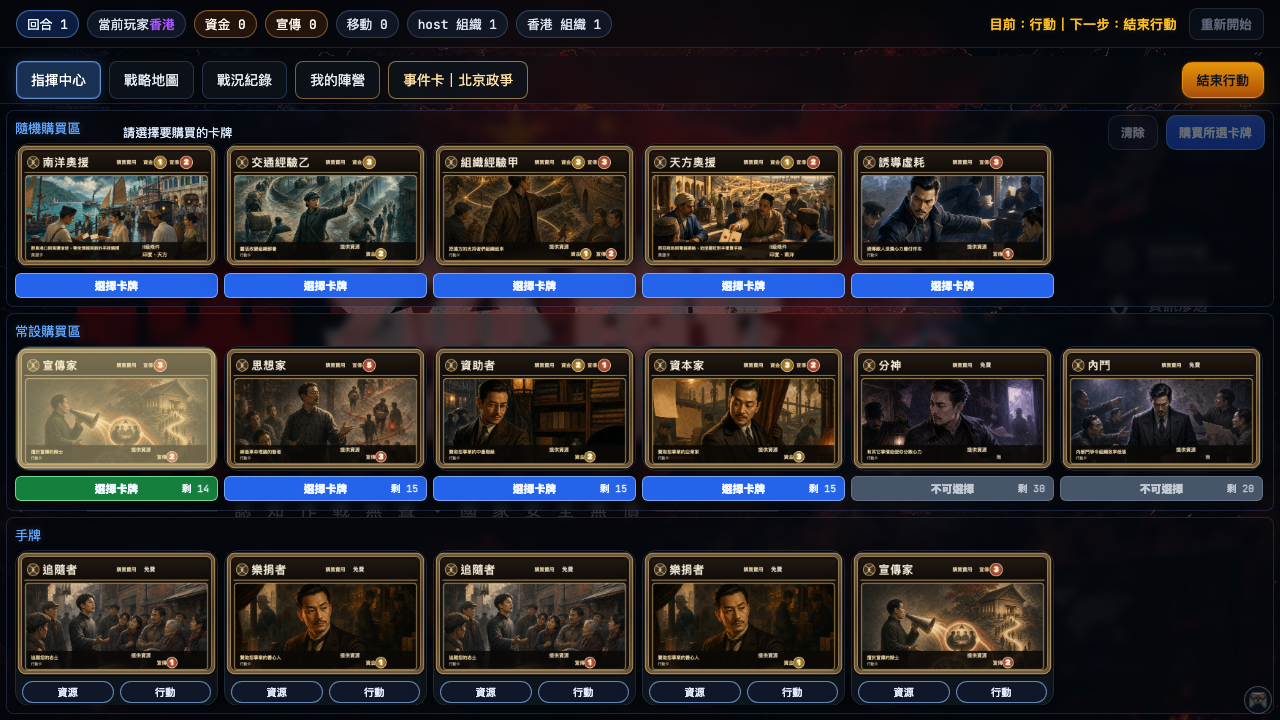
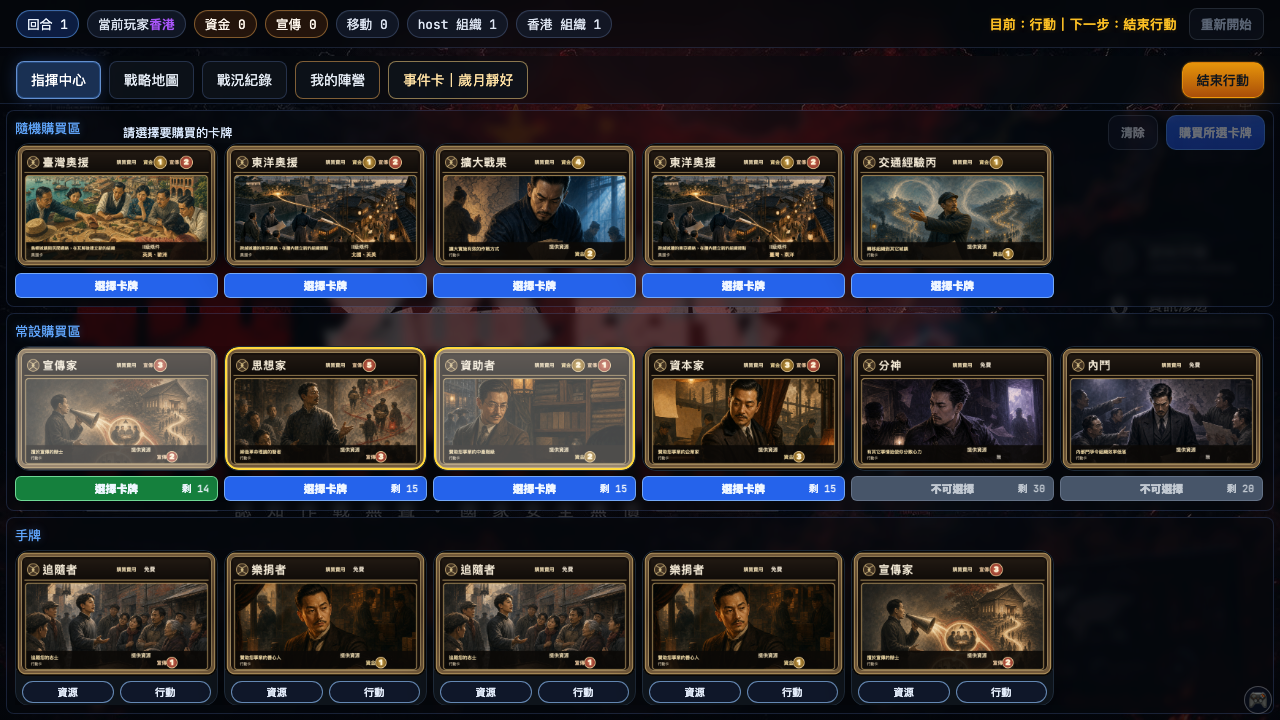
feat: use transparent yellow card focus border

diff --git a/static/style.css b/static/style.css
@@ -1205,7 +1205,7 @@ body {
   display: block;
 }
 
-/* Joy-Con／鍵盤目前焦點。控制器沿用 rl-pad-focus；黃色只覆蓋卡面。 */
+/* Joy-Con 目前焦點。控制器沿用 rl-pad-focus；不透明黃框只框住卡面。 */
 #commandGrid .card.rl-pad-focus::after {
   content: '';
   position: absolute;
@@ -1213,7 +1213,9 @@ body {
   z-index: 4;
   border-radius: inherit;
   pointer-events: none;
-  background: rgba(255, 216, 61, 0.16);
+  box-sizing: border-box;
+  border: 2px solid #ffd83d;
+  background: transparent;
 }
 
 .purchase-card-select-button {
@@ -3932,6 +3934,10 @@ html[data-display="living-room"] #commandGrid {
 html[data-display="living-room"] #purchaseRandom .purchase-card-item,
 html[data-display="living-room"] #purchaseStatic .purchase-card-item,
 html[data-display="living-room"] #hand .hand-card { zoom: 0.78; }
+/* 抵銷卡牌容器縮放，讓客廳模式仍顯示 2px 的焦點框。 */
+html[data-display="living-room"] #commandGrid .card.rl-pad-focus::after {
+  border-width: 2.57px;
+}
 html[data-display="living-room"] #purchaseSelectionControls { min-height: 30px; margin: 0 0 3px; gap: 6px; }
 html[data-display="living-room"] #purchaseSelectionSummary,
 html[data-display="living-room"] .purchase-selection-clear-btn,

diff --git a/static/index.html b/static/index.html
@@ -4,7 +4,7 @@
   <meta charset="UTF-8" />
   <title>REDLINE // STRATEGIC COMMAND</title>
   <link rel="icon" href="data:," />
-  <link rel="stylesheet" href="/static/style.css?v=half-height-command-centre-20261018-7" />
+  <link rel="stylesheet" href="/static/style.css?v=half-height-command-centre-20261018-9" />
   <!-- 客廳輪流（hot-seat）：在第一次繪製前就能遮住舞台，所以放在 <head>。 -->
   <script src="/static/hotseat_core.js?v=hotseat-codename-p1234-20261017"></script>
   <script src="/static/hotseat_ui.js?v=hotseat-codename-p1234-20261017"></script>

diff --git a/scripts/validate/validate_purchase_section_alignment.py b/scripts/validate/validate_purchase_section_alignment.py
@@ -88,19 +88,36 @@ def validate_page(page) -> dict:
     hand_cards = page.locator('#hand .card').count()
     base_panel_display = page.locator('#baseSelectionPanel').evaluate("el => getComputedStyle(el).display")
     focus_visual = page.evaluate("""() => {
-      const card = document.querySelector('#purchaseStatic .card');
-      if (!card) return null;
-      card.classList.add('rl-pad-focus', 'purchase-card-selected');
-      const button = card.closest('.purchase-card-item')?.querySelector('.purchase-card-select-button');
+      const cards = [...document.querySelectorAll('#purchaseStatic .card')];
+      const selectedCard = cards[0];
+      const card = cards[1];
+      const combinedCard = cards[2];
+      if (!selectedCard || !card || !combinedCard) return null;
+      selectedCard.classList.add('purchase-card-selected');
+      card.classList.add('rl-pad-focus');
+      combinedCard.classList.add('purchase-card-selected', 'rl-pad-focus');
+      const button = selectedCard.closest('.purchase-card-item')?.querySelector('.purchase-card-select-button');
       button?.classList.add('is-selected');
       const focusStyle = getComputedStyle(card, '::after');
-      const selectedOverlay = card.querySelector('.purchase-card-selected-overlay');
+      const selectedOverlay = selectedCard.querySelector('.purchase-card-selected-overlay');
+      const combinedFocusStyle = getComputedStyle(combinedCard, '::after');
+      const combinedSelectedOverlay = combinedCard.querySelector('.purchase-card-selected-overlay');
+      const combinedSelectedStyle = combinedSelectedOverlay ? getComputedStyle(combinedSelectedOverlay) : null;
       return {
         card_name: card.dataset.cardName,
         focus_background: focusStyle.backgroundColor,
+        focus_border_width: focusStyle.borderTopWidth,
+        focus_border_style: focusStyle.borderTopStyle,
+        focus_border_color: focusStyle.borderTopColor,
         focus_pointer_events: focusStyle.pointerEvents,
         selected_overlay_display: selectedOverlay ? getComputedStyle(selectedOverlay).display : null,
         button_background: button ? getComputedStyle(button).backgroundColor : null,
+        combined_focus_background: combinedFocusStyle.backgroundColor,
+        combined_focus_border_color: combinedFocusStyle.borderTopColor,
+        combined_focus_z_index: combinedFocusStyle.zIndex,
+        combined_selected_display: combinedSelectedStyle?.display || null,
+        combined_selected_background: combinedSelectedStyle?.backgroundColor || null,
+        combined_selected_z_index: combinedSelectedStyle?.zIndex || null,
       };
     }""")
     row_overflow = page.evaluate("""() => Object.fromEntries(
@@ -169,13 +186,16 @@ def validate_page(page) -> dict:
           }).length,
         };
       });
-      const focusCard = document.querySelector('#purchaseStatic .card');
-      const peerCard = [...document.querySelectorAll('#purchaseStatic .card')].find((card) => card !== focusCard);
+      const focusCard = document.querySelector('#purchaseStatic .card.rl-pad-focus');
+      const peerCard = [...document.querySelectorAll('#purchaseStatic .card')].find((card) => card !== focusCard && !card.classList.contains('rl-pad-focus'));
       return {
         boxes,
         rows,
         controls_outside_panel,
         focus_background: focusCard ? getComputedStyle(focusCard, '::after').backgroundColor : null,
+        focus_border_width: focusCard ? getComputedStyle(focusCard, '::after').borderTopWidth : null,
+        focus_border_style: focusCard ? getComputedStyle(focusCard, '::after').borderTopStyle : null,
+        focus_border_color: focusCard ? getComputedStyle(focusCard, '::after').borderTopColor : null,
         focus_outline: focusCard ? getComputedStyle(focusCard).outlineStyle : null,
         focus_shadow: focusCard ? getComputedStyle(focusCard).boxShadow : null,
         peer_outline: peerCard ? getComputedStyle(peerCard).outlineStyle : null,
@@ -218,13 +238,21 @@ def validate_page(page) -> dict:
             'detail': row_overflow,
         },
         {
-            'name': 'controller_focus_uses_yellow_overlay_distinct_from_selected_state',
+            'name': 'controller_focus_uses_opaque_yellow_border_with_transparent_interior',
             'ok': bool(
                 focus_visual
-                and focus_visual['focus_background'] == 'rgba(255, 216, 61, 0.16)'
+                and focus_visual['focus_background'] == 'rgba(0, 0, 0, 0)'
+                and focus_visual['focus_border_width'] == '2px'
+                and focus_visual['focus_border_style'] == 'solid'
+                and focus_visual['focus_border_color'] == 'rgb(255, 216, 61)'
                 and focus_visual['focus_pointer_events'] == 'none'
                 and focus_visual['selected_overlay_display'] == 'block'
                 and focus_visual['button_background'] == 'rgb(21, 128, 61)'
+                and focus_visual['combined_focus_background'] == 'rgba(0, 0, 0, 0)'
+                and focus_visual['combined_focus_border_color'] == 'rgb(255, 216, 61)'
+                and focus_visual['combined_selected_display'] == 'block'
+                and focus_visual['combined_selected_background'] == 'rgba(255, 255, 255, 0.28)'
+                and int(focus_visual['combined_focus_z_index']) > int(focus_visual['combined_selected_z_index'])
             ),
             'detail': focus_visual,
         },
@@ -239,7 +267,10 @@ def validate_page(page) -> dict:
                     for detail in living_room_layout['rows'].values()
                 )
                 and all(c['count'] > 0 and c['outside'] == 0 for c in living_room_layout['controls_outside_panel'])
-                and living_room_layout['focus_background'] == 'rgba(255, 216, 61, 0.16)'
+                and living_room_layout['focus_background'] == 'rgba(0, 0, 0, 0)'
+                and float(living_room_layout['focus_border_width'].removesuffix('px')) >= 2.5
+                and living_room_layout['focus_border_style'] == 'solid'
+                and living_room_layout['focus_border_color'] == 'rgb(255, 216, 61)'
                 and living_room_layout['focus_outline'] == living_room_layout['peer_outline']
                 and living_room_layout['focus_shadow'] == living_room_layout['peer_shadow']
             ),

diff --git a/scripts/validate/validate_joycon_controller.py b/scripts/validate/validate_joycon_controller.py
@@ -340,6 +340,8 @@ def focus_info(page):
           return { id: el.id, tag: el.tagName, text: (el.textContent || '').trim().slice(0, 30),
                    outlineWidth: parseFloat(cs.outlineWidth), outlineColor: cs.outlineColor,
                    boxShadow: cs.boxShadow, overlayBackground: after.backgroundColor,
+                   overlayBorderWidth: after.borderTopWidth, overlayBorderStyle: after.borderTopStyle,
+                   overlayBorderColor: after.borderTopColor,
                    peerOutlineWidth: peerCs ? parseFloat(peerCs.outlineWidth) : null,
                    peerBoxShadow: peerCs ? peerCs.boxShadow : null,
                    inModal: !!el.closest('.modal-overlay'), modalId: el.closest('.modal-overlay')?.id || null,
@@ -1338,12 +1340,15 @@ def main():
             f1 = focus_info(page)
             record("first_press_places_focus_without_click", f1 is not None and page.evaluate("__spy.sendAction") == 0, f1)
             record(
-                "card_focus_uses_yellow_16_percent_overlay_without_ring_or_glow",
+                "card_focus_uses_opaque_yellow_border_with_transparent_interior",
                 bool(f1)
                 and "card" in f1["cls"]
                 and f1["outlineWidth"] == f1["peerOutlineWidth"]
                 and f1["boxShadow"] == f1["peerBoxShadow"]
-                and f1["overlayBackground"] == "rgba(255, 216, 61, 0.16)",
+                and f1["overlayBackground"] == "rgba(0, 0, 0, 0)"
+                and f1["overlayBorderWidth"] == "2px"
+                and f1["overlayBorderStyle"] == "solid"
+                and f1["overlayBorderColor"] == "rgb(255, 216, 61)",
                 f1,
             )
             # 以元素為單位計數（起手牌是隨機抽的，可能有多張同名、同文字的手牌）
@@ -1638,10 +1643,16 @@ def main():
             card_focus_shot = page.evaluate("""() => { const el = document.querySelector('.card.rl-pad-focus');
               const button = el.closest('.purchase-card-item').querySelector('.purchase-card-select-button');
               const overlay = getComputedStyle(el, '::after'), b = getComputedStyle(button);
-              return { overlayBackground: overlay.backgroundColor, buttonOutline: parseFloat(b.outlineWidth), buttonOutlineStyle: b.outlineStyle,
+              return { overlayBackground: overlay.backgroundColor, overlayBorderWidth: overlay.borderTopWidth,
+                       overlayBorderStyle: overlay.borderTopStyle, overlayBorderColor: overlay.borderTopColor,
+                       buttonOutline: parseFloat(b.outlineWidth), buttonOutlineStyle: b.outlineStyle,
                        buttonHasClass: button.classList.contains('rl-pad-focus') }; }""")
-            record("purchase_card_has_yellow_overlay_button_does_not",
-                   "255, 216, 61" in card_focus_shot["overlayBackground"] and not card_focus_shot["buttonHasClass"]
+            record("purchase_card_has_opaque_yellow_border_button_does_not",
+                   card_focus_shot["overlayBackground"] == "rgba(0, 0, 0, 0)"
+                   and card_focus_shot["overlayBorderWidth"] == "2px"
+                   and card_focus_shot["overlayBorderStyle"] == "solid"
+                   and card_focus_shot["overlayBorderColor"] == "rgb(255, 216, 61)"
+                   and not card_focus_shot["buttonHasClass"]
                    and (card_focus_shot["buttonOutline"] == 0 or card_focus_shot["buttonOutlineStyle"] == "none"), card_focus_shot)
             page.evaluate("document.querySelector('.rl-pad-focus').scrollIntoView({block: 'center'})")
             page.wait_for_timeout(200)

diff --git a/scripts/validate/validate_half_height_purchase_ui.py b/scripts/validate/validate_half_height_purchase_ui.py
@@ -68,7 +68,9 @@ def main() -> None:
     require("purchase-card-checkbox" not in css, "legacy purchase checkbox styles remain")
     require("background: rgba(255, 255, 255, 0.28)" in css, "selected overlay is not 28% white")
     require(".card.rl-pad-focus::after" in css, "controller focus does not target the controller's rl-pad-focus class")
-    require("background: rgba(255, 216, 61, 0.16)" in css, "controller focus is not a 16% yellow overlay")
+    require("border: 2px solid #ffd83d" in css, "controller focus is not an opaque yellow border")
+    require("background: transparent" in css, "controller focus border interior is not transparent")
+    require("border-width: 2.57px" in css, "living-room zoom does not preserve a 2px focus border")
     require("grid-template-rows: repeat(3, minmax(0, 1fr))" in css, "command centre is not a three-row layout")
     random_pos = html.index('id="randomMarketPanel"')
     static_pos = html.index('id="controlPanel"')

diff --git a/docs/joycon_controller.md b/docs/joycon_controller.md
@@ -43,7 +43,7 @@
 | 右搖桿 | 方向導航，**只在內容之間**（deadzone 0.5；按住有 380ms 延遲後每 140ms 重複一次）。與客廳模式同一份排除規則（`Core.isDirectionalExcluded`）：六個全域分頁、回合列（結束行動／紅軍能力）、手牌卡內的「資源」「行動」「棄置」、陣營能力發動鈕、購買選擇按鈕、按鍵提示列**永遠不會**取得方向焦點（`.rl-pad-focus` 與瀏覽器原生 focus 皆然）；手牌只以整張卡牌取得焦點 |
 | A | 確認／啟用目前焦點（呼叫既有 click handler）；**焦點在任何卡牌上時一律只開啟置中卡牌預覽**，不執行、不選擇、不購買 |
 | B | 返回／取消——只在目前 UI 本身有可見、可用的取消／關閉按鈕時才作用，否則什麼都不做 |
-| B（卡牌） | 焦點在購買區卡牌（選擇按鈕不進入焦點集合、沒有黃色焦點遮罩）時切換選擇，點擊該卡既有選擇按鈕；按鈕停用（伺服器權威）則不作用。多張選擇照舊（逐張 B） |
+| B（卡牌） | 焦點在購買區卡牌（選擇按鈕不進入焦點集合；卡面以 2px 不透明黃色邊框標示，框內透明）時切換選擇，點擊該卡既有選擇按鈕；按鈕停用（伺服器權威）則不作用。多張選擇照舊（逐張 B） |
 | X（手牌） | 焦點在整張手牌時＝以資源使用：點擊該卡既有「資源」按鈕；按鈕不存在（如一般奧援為「棄置」）、隱藏或停用則不作用 |
 | Y（手牌） | 焦點在整張手牌時＝以行動使用：點擊該卡既有「行動」按鈕；隱藏或停用則不作用 |
 | Y（購買卡） | **先 B 選擇，再按 Y**：焦點卡是有效的已選擇卡（選擇按鈕可見、未停用）且既有「購買所選」可用時，點它開啟既有購買確認單（內容是目前整份選擇；確認、資源檢查與 `buy_cards` 都在既有確認單）。未選擇、選擇按鈕停用／隱藏（例如售完）、合計買不起（按鈕停用）、按鈕隱藏或不存在一律 fail closed；**Y 永遠不會選擇任何卡**、不直接購買。與客廳模式同一個函式與閘門 |
@@ -81,7 +81,7 @@ physical input（bridge WebSocket frame）
 ```
 
 - `static/controller_core.js`：純邏輯，可在 node 測試（`scripts/tests/js/controller_core.test.js`）。
-- `static/controller_ui.js`：bridge client、設定與 HUD、DOM 焦點集合、焦點標示（`.rl-pad-focus`，4px 高對比外框，不改版面）、`scrollIntoView`。
+- `static/controller_ui.js`：bridge client、設定與 HUD、DOM 焦點集合、焦點標示（`.rl-pad-focus`；卡面使用 2px 不透明黃色邊框且框內透明，其他控制項使用高對比外框，不改版面）、`scrollIntoView`。
 - `static/controller_map_adapter.js`：戰略地圖 iframe 端。
 - `static/living_room_core.js`（純邏輯，node 可測：路由、方向焦點排除規則、R／SR 區段環、按鍵提示列、閘門、地圖清單）＋ `static/controller_living_room.js`（DOM 膠合，透過 `RedlineController.attachLayer` 只在客廳模式接手 page／map scope，以及事件卡／時代關卡說明 modal 內的 R／SR）：見下方「客廳大螢幕模式」。
 

diff --git a/docs/records/purchase/PURCHASE_SECTION_ALIGNMENT_VALIDATION.md b/docs/records/purchase/PURCHASE_SECTION_ALIGNMENT_VALIDATION.md
@@ -95,15 +95,24 @@ screenshot: docs/records/purchase/purchase_section_alignment_validation.png
 }
 ```
 
-## PASS — controller_focus_uses_yellow_overlay_distinct_from_selected_state
+## PASS — controller_focus_uses_opaque_yellow_border_with_transparent_interior
 
 ```json
 {
-  "card_name": "宣傳家",
-  "focus_background": "rgba(255, 216, 61, 0.16)",
+  "card_name": "思想家",
+  "focus_background": "rgba(0, 0, 0, 0)",
+  "focus_border_width": "2px",
+  "focus_border_style": "solid",
+  "focus_border_color": "rgb(255, 216, 61)",
   "focus_pointer_events": "none",
   "selected_overlay_display": "block",
-  "button_background": "rgb(21, 128, 61)"
+  "button_background": "rgb(21, 128, 61)",
+  "combined_focus_background": "rgba(0, 0, 0, 0)",
+  "combined_focus_border_color": "rgb(255, 216, 61)",
+  "combined_focus_z_index": "4",
+  "combined_selected_display": "block",
+  "combined_selected_background": "rgba(255, 255, 255, 0.28)",
+  "combined_selected_z_index": "3"
 }
 ```
 
@@ -168,7 +177,10 @@ screenshot: docs/records/purchase/purchase_section_alignment_validation.png
       "outside": 0
     }
   ],
-  "focus_background": "rgba(255, 216, 61, 0.16)",
+  "focus_background": "rgba(0, 0, 0, 0)",
+  "focus_border_width": "2.5641px",
+  "focus_border_style": "solid",
+  "focus_border_color": "rgb(255, 216, 61)",
   "focus_outline": "none",
   "focus_shadow": "rgba(0, 0, 0, 0.34) 0px 12px 32px 0px",
   "peer_outline": "none",

diff --git a/CHANGELOG.md b/CHANGELOG.md
@@ -13,6 +13,7 @@
 
 ### Changed
 
+- 指揮中心的 Joy-Con 卡牌焦點改為 2px 不透明黃色邊框；框內保持透明，且邊框只包住卡面，不包購買選擇按鈕。白色半透明遮罩仍獨立表示已加入購買選擇。
 - 所有任務事件卡改為每位非紅軍玩家個別追蹤、個別判定、個別套用成功／失敗效果，並統一在事件公開後完整一輪結束（所有人各行動一次）時結算（不再於較早座位結束時提早結算）；多位玩家的結果與待決選擇依座位順序排隊處理。
 
 ### Fixed
